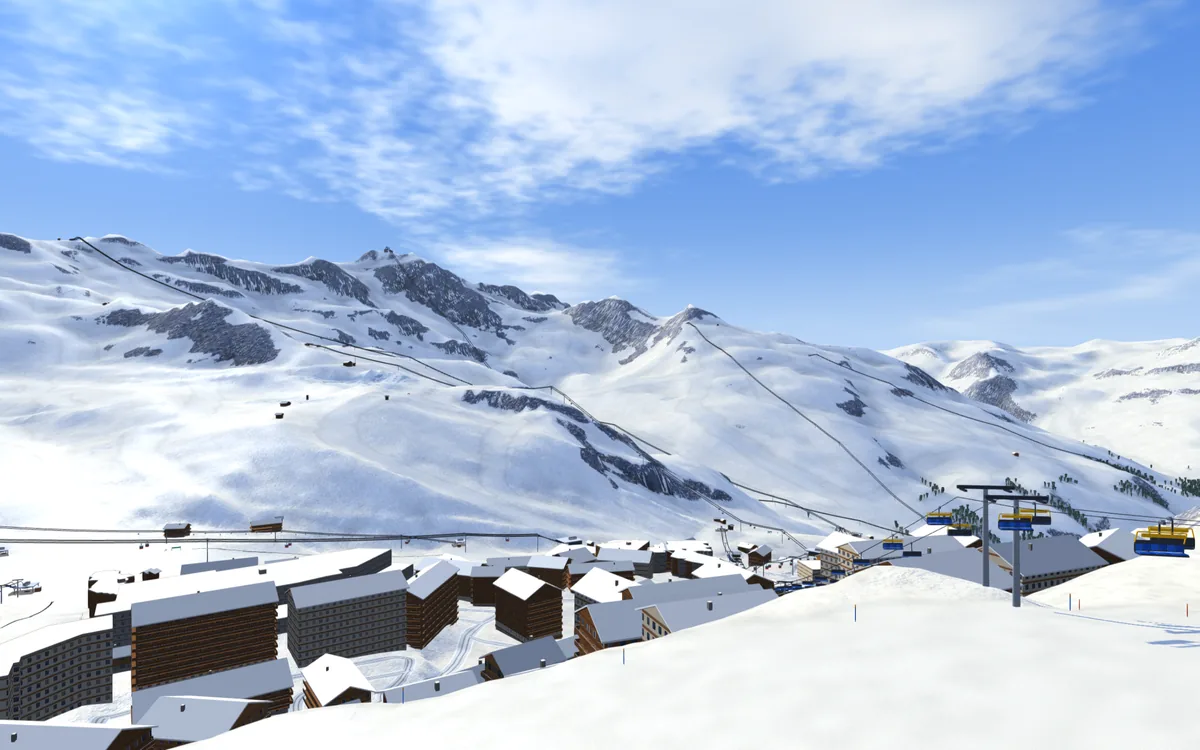
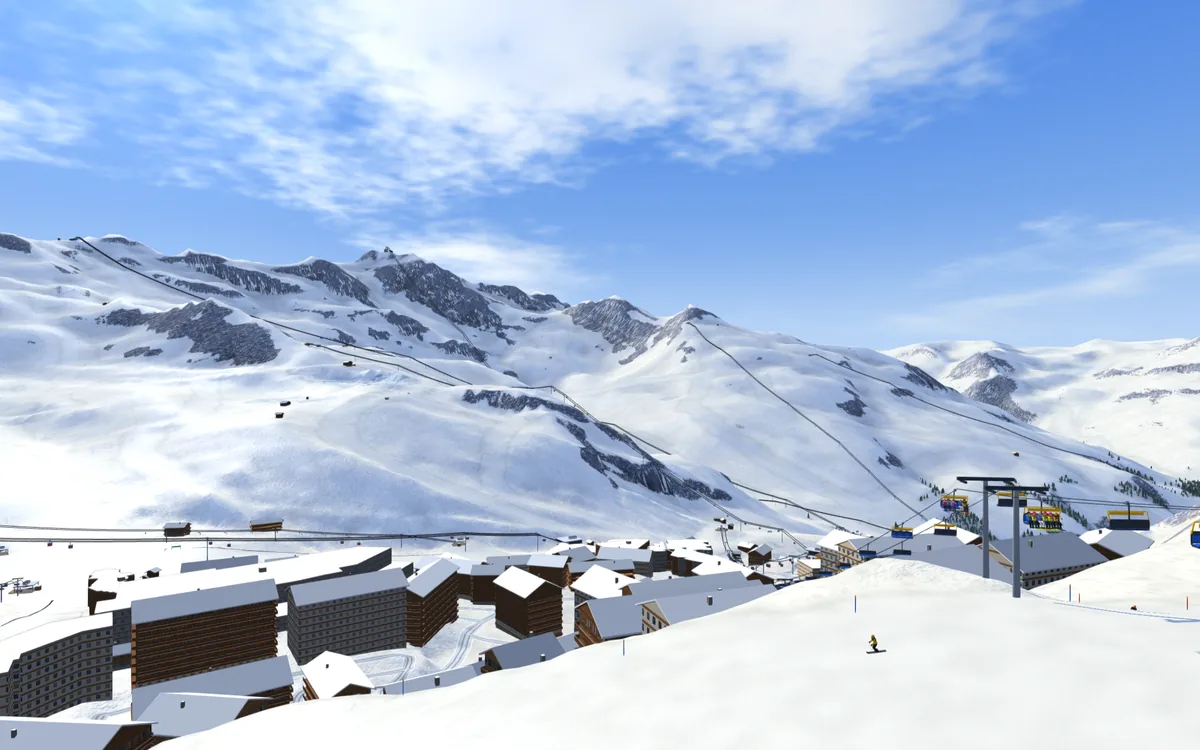
Ski Alpen: picker pictures re-rendered with upright far trees (6 cards); compact cloud save (indexed stars s3 + packed s2, ordered degradation, size test)

diff --git a/pb/ski/modes/cloud.js b/pb/ski/modes/cloud.js
@@ -4,12 +4,14 @@
  * limit of game_saves even with every star of all five resorts):
  *   { v: 1, tb: total stars (monotone: the game_saves_keep_progress trigger keeps the save with more), s: { <resort>: "hhhhhm..." }
  *     (5 characters of piste-id hash + the star mask digit per piste), p: { <resort>: best park points }, b: { <resort>: "hhhhhtttttt..." }
- *     (best times in ms, base 36, dropped first when the record would not fit), x: { o: metres off the piste, t: top speed in
+ *     (best times in ms, base 36, dropped first when the record would not fit)
+ *     round 9: s3: { <resort>: 3-bit masks by piste-index position } (+ s2: packed hashes of pistes the index lacks) replace s when the plain text would pass LIMIT; the order of what is dropped is in encodeCloud, x: { o: metres off the piste, t: top speed in
  *     0.1 m/s, k: the picked ski type } (round 6: the ski unlocks; an old game ignores it, an old record without it reads as zero) }
  * Merging is always a union: stars OR-ed, park points and times keep the better one. Nothing is ever taken away from a player.
  * Test mode (window.__pbTestMode): nothing is sent or applied (the arcade keeps test saves apart). Standalone: local only. */
 import { cleanMask, starCount, totalStars } from './challenges.js';
 import { mergeRle, rleIntervals } from './discovery.js';
+import { PISTE_INDEX } from './piste-index.js';
 
 export const CLOUD_VERSION = 1;
 const LIMIT = 7000;                 // bytes of JSON (game_saves: jsonb <= 8192)
@@ -17,8 +19,115 @@ const SAVE_DELAY_MS = 1500;
 const HASH = 5, TIME = 6;
 const isRecord = (v) => v !== null && typeof v === 'object' && !Array.isArray(v);
 
-/** Compact cloud record of a progress (pure). */
-export function encodeCloud(progress) {
+
+/* ---------------- compact star packing (format "s2") ----------------
+ * The old text "hhhhhm" costs 6 bytes per starred piste: with every star of 8+ resorts (~1,700 pistes and growing) it passes the
+ * 8,192-byte jsonb limit of game_saves. s2 per resort = base64url of a bit stream: k (5 bits), count (Elias-gamma of count + 1), then the
+ * piste hashes sorted ascending as Golomb-Rice gaps (unary quotient, k low bits) and a mask (1 bit "all three stars", else 3 bits).
+ * Lossless, ~20 bits per piste instead of 48. Only written when the old text would not fit; decodeCloud reads both. */
+const HASH_SPACE = 36 ** HASH;                                  // hash5 values < 60,466,176
+const B64 = 'ABCDEFGHIJKLMNOPQRSTUVWXYZabcdefghijklmnopqrstuvwxyz0123456789-_';
+const MAX_PACKED_CHARS = 4000, MAX_PACKED_PISTES = 6000;
+
+function packStars(entries) {                                   // entries: [[hashInt, mask], ...] (any order)
+  const sorted = [...entries].sort((a, b) => a[0] - b[0]);
+  const gaps = sorted.map(([h], i) => h - (i ? sorted[i - 1][0] : -1) - 1);
+  let k = 0, best = Infinity;
+  for (let c = 0; c < 27; c++) {
+    const bits = gaps.reduce((n, g) => n + (g >> c) + 1 + c, 0);
+    if (bits < best) { best = bits; k = c; }
+  }
+  const bits = [];
+  const put = (value, width) => { for (let i = width - 1; i >= 0; i--) bits.push((value >> i) & 1); };
+  put(k, 5);
+  const n1 = sorted.length + 1, len = 31 - Math.clz32(n1);
+  put(0, len); put(n1, len + 1);                                // Elias-gamma
+  sorted.forEach(([, mask], i) => {
+    for (let q = gaps[i] >> k; q > 0; q--) bits.push(1);
+    bits.push(0);
+    put(gaps[i] & ((1 << k) - 1), k);
+    if (mask === 7) bits.push(1); else { bits.push(0); put(mask, 3); }
+  });
+  let out = '';
+  for (let i = 0; i < bits.length; i += 6) {
+    let v = 0;
+    for (let j = 0; j < 6; j++) v = (v << 1) | (bits[i + j] || 0);
+    out += B64[v];
+  }
+  return out;
+}
+
+/** [[hashInt, mask], ...] of a packed text, or null when it is malformed (bounded: text <= MAX_PACKED_CHARS, <= MAX_PACKED_PISTES). */
+function unpackStars(text) {
+  if (typeof text !== 'string' || !text || text.length > MAX_PACKED_CHARS) return null;
+  const bits = [];
+  for (const ch of text) {
+    const v = B64.indexOf(ch);
+    if (v < 0) return null;
+    for (let j = 5; j >= 0; j--) bits.push((v >> j) & 1);
+  }
+  let pos = 0;
+  const get = () => (pos < bits.length ? bits[pos++] : -1);
+  const read = (width) => { let v = 0; for (let i = 0; i < width; i++) { const b = get(); if (b < 0) return -1; v = (v << 1) | b; } return v; };
+  const k = read(5);
+  if (k < 0 || k > 26) return null;
+  let zeros = 0;
+  for (let b = get(); b === 0; b = get()) if (++zeros > 14) return null;
+  const n1 = zeros ? (1 << zeros) | read(zeros) : 1;
+  const count = n1 - 1;
+  if (count < 0 || count > MAX_PACKED_PISTES) return null;
+  const out = [];
+  let prev = -1;
+  for (let i = 0; i < count; i++) {
+    let q = 0, b = get();
+    for (; b === 1; b = get()) if (++q > HASH_SPACE >> k) return null;
+    if (b !== 0) return null;
+    const low = read(k);
+    if (low < 0) return null;
+    const h = prev + 1 + (q << k) + low;
+    const all = get();
+    const mask = all === 1 ? 7 : all === 0 ? read(3) : -1;
+    if (h >= HASH_SPACE || !(mask > 0 && mask < 8)) return null;
+    out.push([h, mask]);
+    prev = h;
+  }
+  return out;
+}
+
+/* ---------------- indexed stars (format "s3", the smallest) ----------------
+ * piste-index.js (append-only, scripts/ski/piste_index.mjs) lists every piste hash of a resort in a fixed order; s3 = per resort one 3-bit
+ * star mask per position, two positions per base64 character (~0.5 byte per piste: every star of 2,000 pistes = ~1 KB). Pistes that the
+ * index does not know yet (a new resort / bake before the generator ran) go to the packed s2 text instead. */
+const indexMaps = new Map();
+function indexOf(rid) {
+  if (!indexMaps.has(rid)) {
+    const text = PISTE_INDEX[rid] || '', map = new Map();
+    for (let i = 0; i + HASH <= text.length; i += HASH) map.set(text.slice(i, i + HASH), i / HASH);
+    indexMaps.set(rid, map);
+  }
+  return indexMaps.get(rid);
+}
+function indexedStars(rid, entries) {                           // entries: [[hash5, mask]] -> { text, rest }
+  const map = indexOf(rid), masks = [], rest = [];
+  for (const [h, m] of entries) { const pos = map.get(h); if (pos === undefined) rest.push([parseInt(h, 36), m]); else masks[pos] = m; }
+  let text = '';
+  for (let i = 0; i < masks.length; i += 2) text += B64[((masks[i] || 0) << 3) | (masks[i + 1] || 0)];
+  return { text, rest };
+}
+function unindexStars(rid, text) {                              // [[hash5, mask]] (unknown resort / positions past the index are skipped)
+  const index = PISTE_INDEX[rid];
+  if (typeof text !== 'string' || !index || text.length > MAX_PACKED_CHARS) return [];
+  const out = [];
+  for (let i = 0; i < text.length; i++) {
+    const v = B64.indexOf(text[i]);
+    if (v < 0) return [];
+    for (const [pos, m] of [[2 * i, v >> 3], [2 * i + 1, v & 7]]) if (m > 0 && (pos + 1) * HASH <= index.length) out.push([index.slice(pos * HASH, (pos + 1) * HASH), m]);
+  }
+  return out;
+}
+
+/** Compact cloud record of a progress (pure). `report` (optional array) receives what had to be dropped to stay under the limit. */
+export function encodeCloud(progress, report = []) {
   const s = {}, b = {}, p = {};
   for (const [k, v] of Object.entries(progress.stars || {})) {
     const m = cleanMask(v), cut = k.indexOf('/');
@@ -44,11 +153,36 @@ export function encodeCloud(progress) {
   for (const [rid, m] of Object.entries(progress.lawin || {})) if (Number.isInteger(m) && m > 0) w[rid] = m;
   if (Object.keys(d).length) rec.d = d;
   if (Object.keys(w).length) rec.w = w;
-  if (JSON.stringify(rec).length > LIMIT) delete rec.b;            // best times go first (the boards keep them anyway)
-  while (rec.d && JSON.stringify(rec).length > LIMIT) {
+  const size = () => JSON.stringify(rec).length;
+  // round 9: 1. too big -> the stars move to the packed format s2 (lossless; old games read v1 without `s`: no stars shown, nothing lost
+  // server-side because the keep-progress trigger compares `tb`). 2. best times (the boards keep them), 3. discovered cells resort by
+  // resort (largest first, the fog grid is the biggest part), 4. Lawin bits, 5. park points, 6. stars of the least-starred resorts.
+  if (size() > LIMIT) {
+    const s2 = {}, s3 = {};
+    for (const [rid, text] of Object.entries(s)) {
+      const entries = [];
+      for (let i = 0; i + HASH < text.length; i += HASH + 1) entries.push([text.slice(i, i + HASH), Number(text[i + HASH])]);
+      const { text: packed, rest } = indexedStars(rid, entries);
+      if (packed) s3[rid] = packed;
+      if (rest.length) s2[rid] = packStars(rest);
+    }
+    if (Object.keys(s3).length) rec.s3 = s3;
+    if (Object.keys(s2).length) rec.s2 = s2;
+    rec.s = {};
+  }
+  const drop = (what, fn) => { fn(); report.push(what); };
+  if (size() > LIMIT && rec.b) drop('best times', () => { delete rec.b; });
+  while (rec.d && size() > LIMIT) {
     const big = Object.keys(rec.d).sort((a, b) => rec.d[b].length - rec.d[a].length)[0];
-    delete rec.d[big];
+    drop(`discovered map of ${big}`, () => { delete rec.d[big]; });
     if (!Object.keys(rec.d).length) delete rec.d;
+  }
+  if (size() > LIMIT && rec.w) drop('Lawin wins', () => { delete rec.w; });
+  if (size() > LIMIT) drop('park points', () => { rec.p = {}; });
+  const starText = (rid) => ((rec.s3 || {})[rid] || '') + ((rec.s2 || {})[rid] || '');
+  while (size() > LIMIT && new Set([...Object.keys(rec.s3 || {}), ...Object.keys(rec.s2 || {})]).size) {
+    const least = [...new Set([...Object.keys(rec.s3 || {}), ...Object.keys(rec.s2 || {})])].sort((a, b) => starText(a).length - starText(b).length)[0];
+    drop(`stars of ${least}`, () => { if (rec.s3) delete rec.s3[least]; if (rec.s2) delete rec.s2[least]; });
   }
   return rec;
 }
@@ -65,6 +199,18 @@ export function decodeCloud(raw) {
       const m = Number(text[i + HASH]);
       if (Number.isInteger(m) && m > 0 && m < 8) stars[`${rid}/${text.slice(i, i + HASH)}`] = m;
     }
+  }
+  // s3 (indexed, round 9) and s2 (packed): at most 16 resorts each, bounded texts
+  for (const [rid, text] of Object.entries(isRecord(data.s3) ? data.s3 : {}).slice(0, 16)) {
+    if (!/^[a-z0-9]{1,16}$/.test(rid)) continue;
+    for (const [h, m] of unindexStars(rid, text)) stars[`${rid}/${h}`] = m;
+  }
+  // s2 (packed, round 9): at most 16 resorts, each bounded text; a malformed one is skipped
+  for (const [rid, text] of Object.entries(isRecord(data.s2) ? data.s2 : {}).slice(0, 16)) {
+    if (!/^[a-z0-9]{1,16}$/.test(rid)) continue;
+    const entries = unpackStars(text);
+    if (!entries) continue;
+    for (const [h, m] of entries) stars[`${rid}/${h.toString(36).padStart(HASH, '0')}`] = m;
   }
   for (const [rid, pts] of Object.entries(isRecord(data.p) ? data.p : {})) if (Number.isFinite(pts) && pts > 0) park[rid] = Math.round(pts);
   for (const [rid, text] of Object.entries(isRecord(data.b) ? data.b : {})) {
@@ -124,8 +270,10 @@ export function createCloudSave({ win = window, onIncoming }) {
   function send() {
     timer = 0;
     if (!pending || standalone || testMode()) return;
-    const rec = encodeCloud(pending);
+    const dropped = [];
+    const rec = encodeCloud(pending, dropped);
     pending = null;
+    if (dropped.length) console.warn('[ski] cloud save over the limit, not saved:', dropped.join(', '));
     const json = JSON.stringify(rec);
     if (json === lastJson) return;
     if (json.length > LIMIT) { console.warn('[ski] cloud save too large, not sent', json.length); return; }

diff --git a/pb/ski/modes/piste-index.js b/pb/ski/modes/piste-index.js
@@ -1,0 +1,11 @@
+/* GENERATED by scripts/ski/piste_index.mjs, APPEND-ONLY (never reorder or delete: the cloud save stores one star mask per position).
+ * Per resort the hash5 of every piste id (modes/challenges.js hash5), 5 characters each. */
+export const PISTE_INDEX = {
[7 lines of base64/hex data omitted]
+};

diff --git a/pb/ski.html b/pb/ski.html
@@ -40,7 +40,7 @@
 "/pb/ski/modes/carriers.js":"/pb/ski/modes/carriers.js?v=df2b562bde",
 "/pb/ski/modes/challenges.js":"/pb/ski/modes/challenges.js?v=945ad6331d",
 "/pb/ski/modes/clear.js":"/pb/ski/modes/clear.js?v=50fbd6b9c0",
-"/pb/ski/modes/cloud.js":"/pb/ski/modes/cloud.js?v=e7e6e9cbbc",
+"/pb/ski/modes/cloud.js":"/pb/ski/modes/cloud.js?v=94aa14d113",
 "/pb/ski/modes/course.js":"/pb/ski/modes/course.js?v=70b6bf6ba5",
 "/pb/ski/modes/discovery.js":"/pb/ski/modes/discovery.js?v=f127d609b0",
 "/pb/ski/modes/explore.js":"/pb/ski/modes/explore.js?v=4660d4617e",
@@ -52,6 +52,7 @@
 "/pb/ski/modes/panel.js":"/pb/ski/modes/panel.js?v=a99b676a54",
 "/pb/ski/modes/park-check.js":"/pb/ski/modes/park-check.js?v=e806a84b08",
 "/pb/ski/modes/park.js":"/pb/ski/modes/park.js?v=aa9cf8a79b",
+"/pb/ski/modes/piste-index.js":"/pb/ski/modes/piste-index.js?v=f62fa2e96b",
 "/pb/ski/modes/skis.js":"/pb/ski/modes/skis.js?v=67ac2b65a6",
 "/pb/ski/modes/views.js":"/pb/ski/modes/views.js?v=db965cb8a3",
 "/pb/ski/net/config.js":"/pb/ski/net/config.js?v=47226eddac",
@@ -71,7 +72,7 @@
 "/pb/ski/npc.js":"/pb/ski/npc.js?v=df3e249282",
 "/pb/ski/pano.js":"/pb/ski/pano.js?v=1c656edfd0",
 "/pb/ski/picker-stats.js":"/pb/ski/picker-stats.js?v=5a5a5e7cf4",
-"/pb/ski/picker.js":"/pb/ski/picker.js?v=f5c6d71ba2",
+"/pb/ski/picker.js":"/pb/ski/picker.js?v=070a41f0a9",
 "/pb/ski/pistes.js":"/pb/ski/pistes.js?v=e51753d08c",
 "/pb/ski/post.js":"/pb/ski/post.js?v=db5b65d190",
 "/pb/ski/progress.js":"/pb/ski/progress.js?v=16fd57d867",

diff --git a/pb/ski/picker.js b/pb/ski/picker.js
@@ -6,7 +6,7 @@ import { RESORTS } from './resort-data.js';
 import { PICKER_STATS } from './picker-stats.js';
 import { createStore } from './progress.js';
 
-const IMG_VERSION = 1;                     // bump when the pictures are rendered again (sw.js keeps ?v= files cache-first)
+const IMG_VERSION = 2;                    // bump when the pictures are rendered again (sw.js keeps ?v= files cache-first)
 const IMG_WIDTHS = [640, 1200];
 const IMG_RATIO = [16, 10];
 

diff --git a/pb/ski/HANDOFF.md b/pb/ski/HANDOFF.md
@@ -1853,3 +1853,13 @@ piste map looked at, traced or copied). The old plan from above stays one tap aw
   memory-check "switch #3 killy" +61 MB vs the 50 MB limit fails the same on main without this change (+62): open, not from the map.
 - Not done: WebKit (hangs on the Mini). French resorts have hardly any piste numbers in OSM (names instead). On a tall screen the whole
   (wide) sheet is small: it opens on the skier, which fills the box. First play + ~55 KB (the new modules; no image).
+
+## Cleanup round (23 Nov 2026): picker pictures + compact cloud save
+- **Picker pictures**: killy / 3vallees / zermatt / arlberg / kronplatz / vialattea re-rendered with the upright far trees (same poses as above;
+  Via Lattea pose 16950,10550,12,16527,10196,42,58 = Sestriere towers + chairlift), WebP <= 80 KB, `IMG_VERSION` 2 in picker.js. Obertauern was already fine.
+- **Cloud save**: `modes/cloud.js` writes the old plain `s` while it fits LIMIT 7000; beyond that the stars go to `s3` (3-bit mask per position of
+  `modes/piste-index.js`, ~1.3 KB for all 1,739 real pistes) plus `s2` (Golomb-Rice packed hashes) for pistes the index lacks. decodeCloud reads s, s2, s3.
+  Degradation order (reported through `encodeCloud(progress, report)` + console.warn): best times, discovered map resort by resort (largest
+  first), Lawin, park points, stars of the least-starred resorts. **After every bake / new resort run `node scripts/ski/piste_index.mjs`**
+  (append-only, never reorder) and `python3 scripts/game_importmap.py`; a missing piste still saves (s2), `cloud-size-test.mjs` fails until the index is complete.
+  Test: `node scripts/ski/cloud-size-test.mjs` (8 resorts all starred: 5.8 KB with fog + times offered; stars alone ~1.3 KB).
